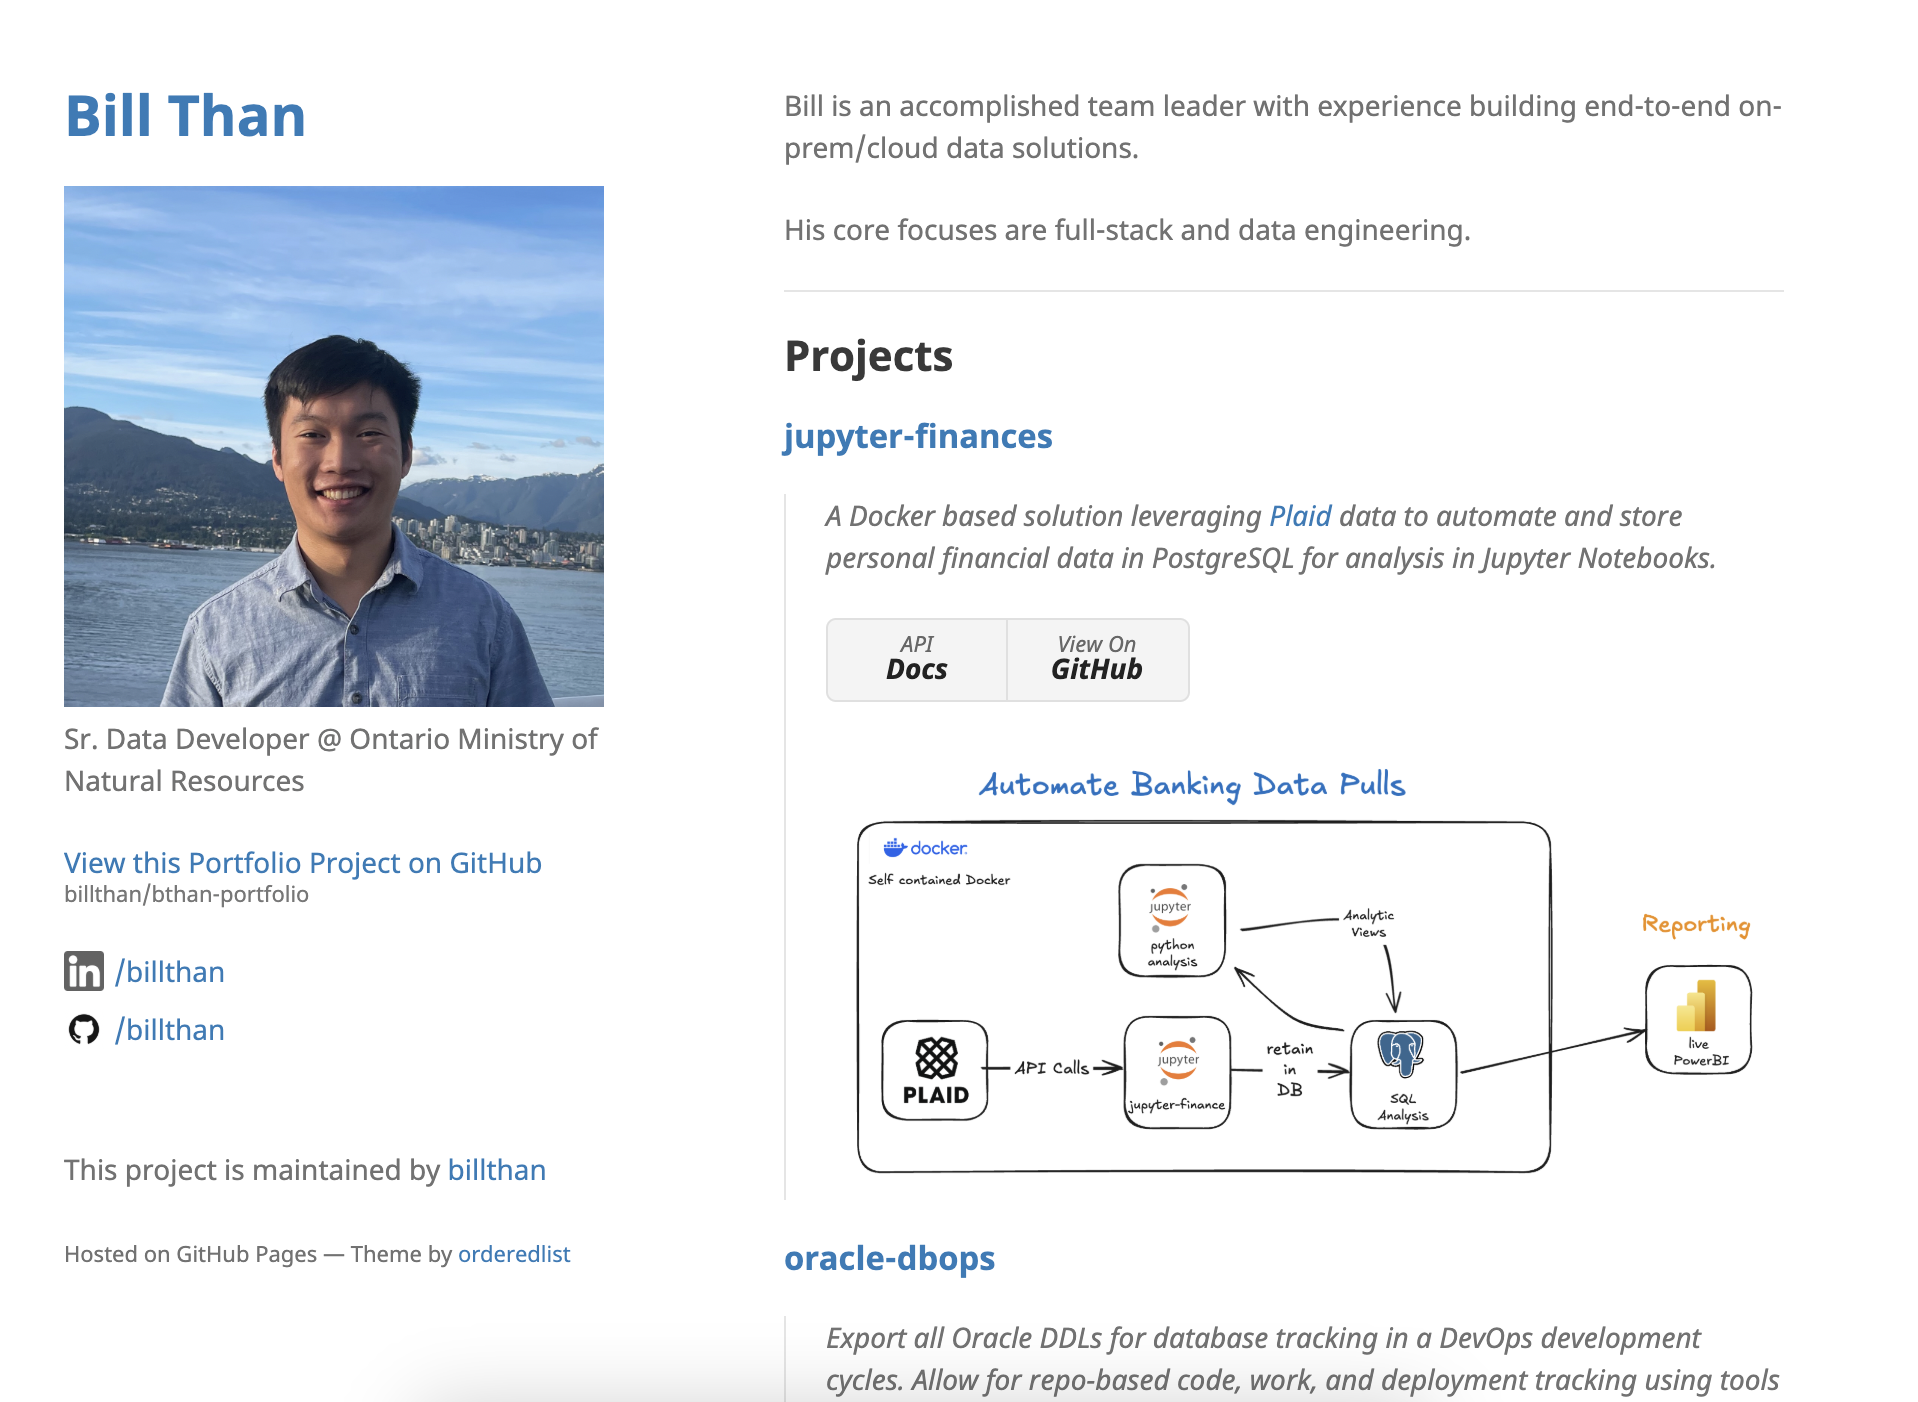
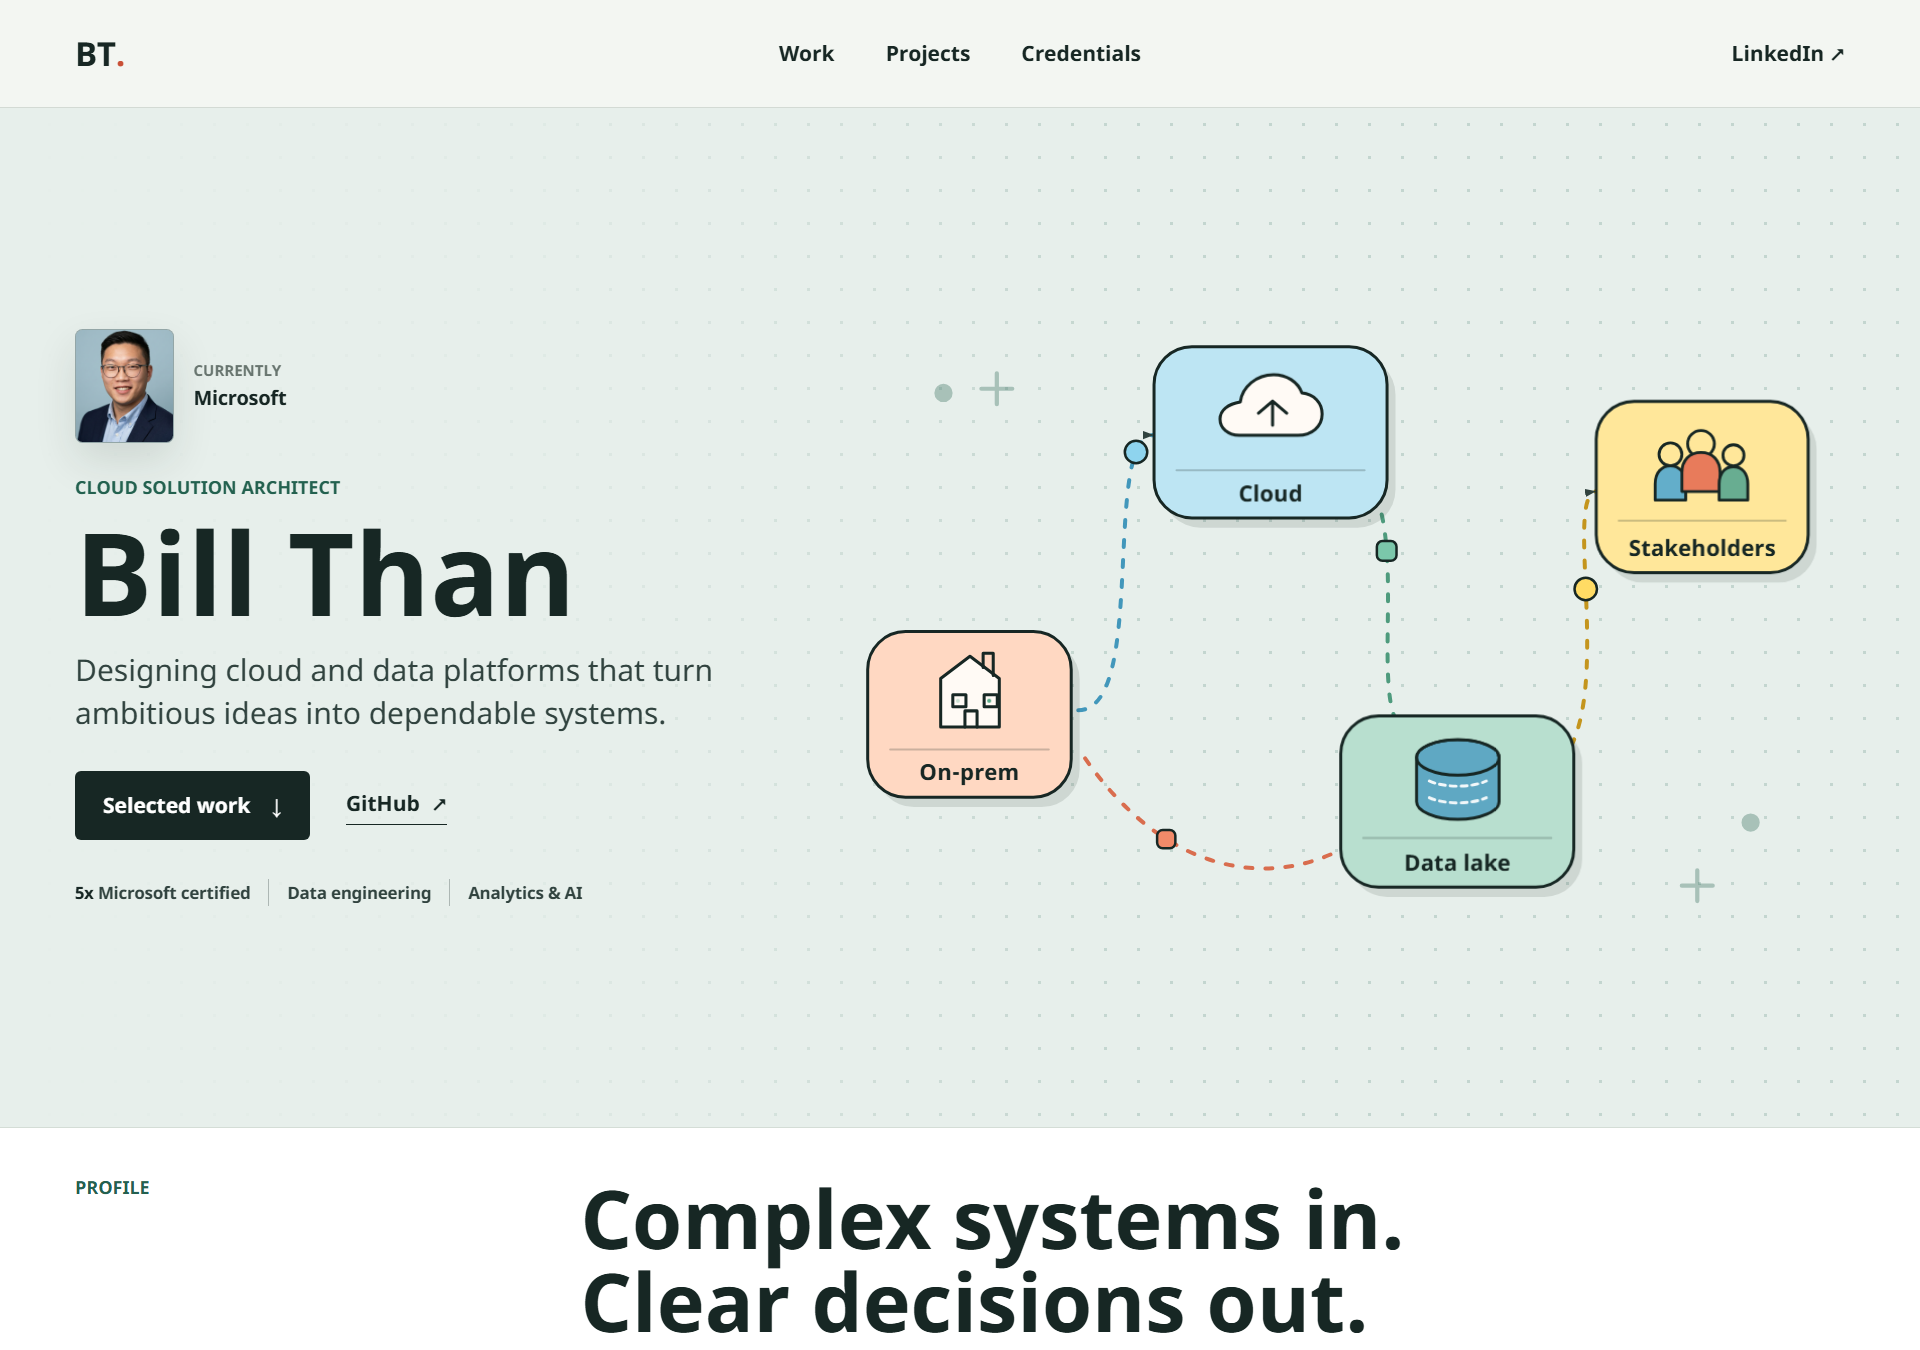
Fix Pages deployment and refresh preview

diff --git a/_sass/portfolio.scss b/_sass/portfolio.scss
@@ -774,36 +774,23 @@ h3 {
 .system-map__arrow { fill: var(--ink-soft); }
 
 .system-map__packet {
-  opacity: 0;
+  opacity: 1;
   stroke: var(--ink);
   stroke-width: 2.5;
   vector-effect: non-scaling-stroke;
-  transition: opacity 220ms ease 500ms;
 }
 
-.data-world.is-active .system-map__packet { opacity: 1; }
 .system-map__packet--blue { fill: #8ed4ee; }
 .system-map__packet--green { fill: #7bc7aa; }
 .system-map__packet--gold { fill: #ffdb64; }
 .system-map__packet--coral { fill: #f28a69; }
 
 .system-map__node {
-  opacity: 0;
-  transform: translateY(12px);
-  transform-box: fill-box;
-  transform-origin: center;
-  transition: opacity 480ms ease, transform 480ms ease;
-}
-
-.data-world.is-active .system-map__node {
   opacity: 1;
   transform: translateY(0);
+  transform-box: fill-box;
+  transform-origin: center;
 }
-
-.system-map__node--onprem { transition-delay: 40ms; }
-.system-map__node--cloud { transition-delay: 160ms; }
-.system-map__node--lake { transition-delay: 280ms; }
-.system-map__node--people { transition-delay: 400ms; }
 
 .system-map__shadow { fill: rgba(23, 39, 36, 0.12); }
 

diff --git a/README.md b/README.md
@@ -32,7 +32,7 @@ script/bootstrap
 bundle exec jekyll serve
 ```
 
-The site will be available at `http://127.0.0.1:4000/`.
+The site will be available at `http://127.0.0.1:4000/bthan-portfolio/`.
 
 On Windows, run `bundle install` directly if the shell scripts are unavailable:
 
